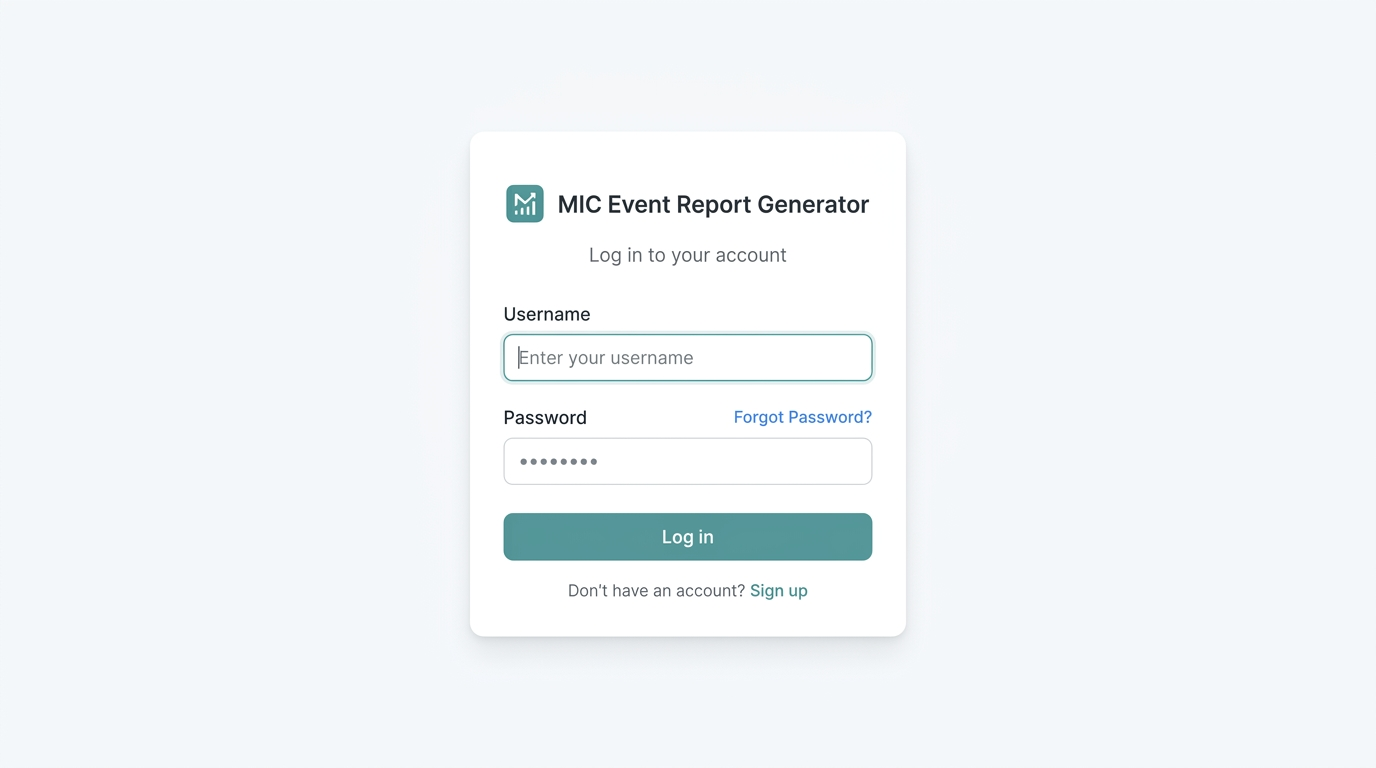
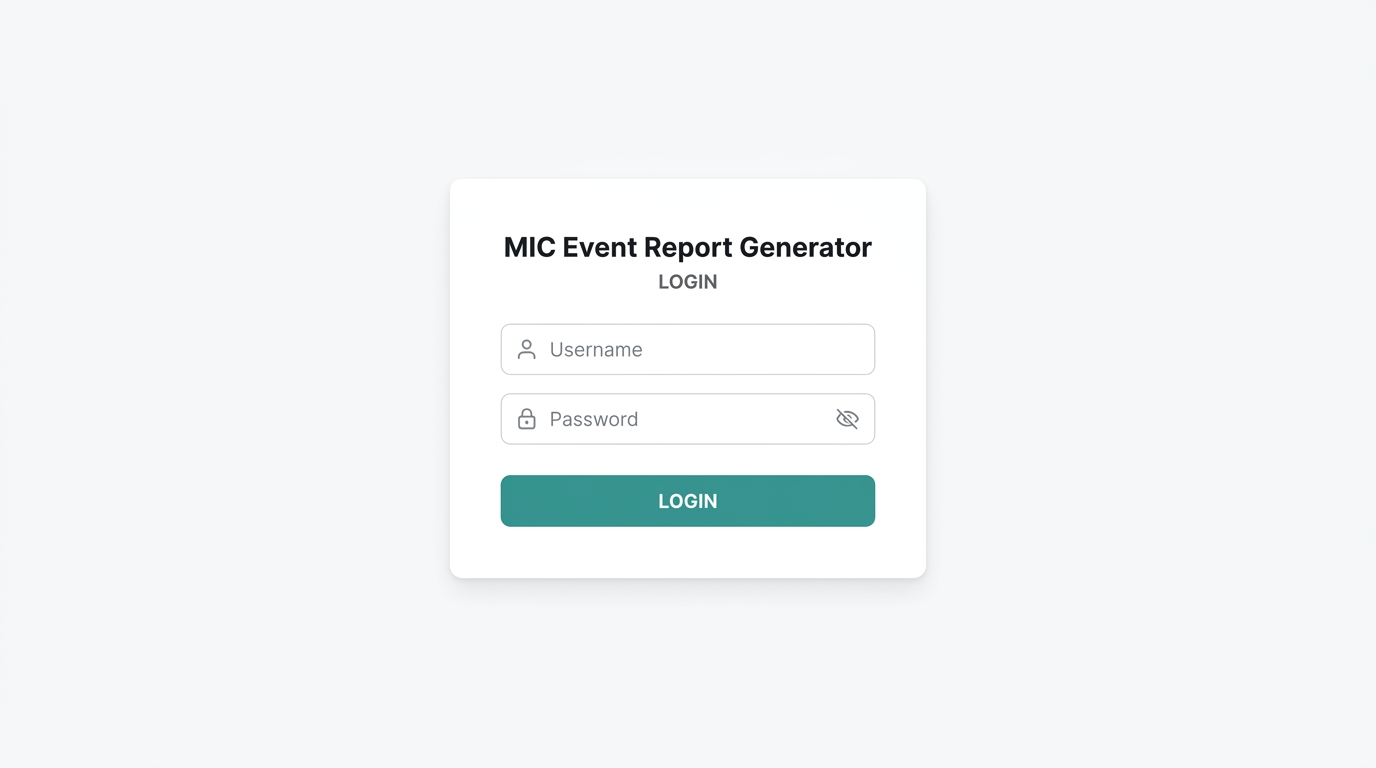
clean login mockup and placeholder

diff --git a/src/App.jsx b/src/App.jsx
@@ -223,7 +223,7 @@ export default function App() {
       setView('landing');
       showToast('Logged in as club coordinator');
     } else {
-      showToast('Invalid credentials. Use admin/admin6767 or user/user123');
+      showToast('Invalid username or password');
     }
   };
 
@@ -914,7 +914,7 @@ ${formData.description}`;
                   className="form-input" 
                   value={username}
                   onChange={(e) => setUsername(e.target.value)}
-                  placeholder="e.g. user or admin"
+                  placeholder="e.g. johndoe"
                   required
                 />
               </div>
